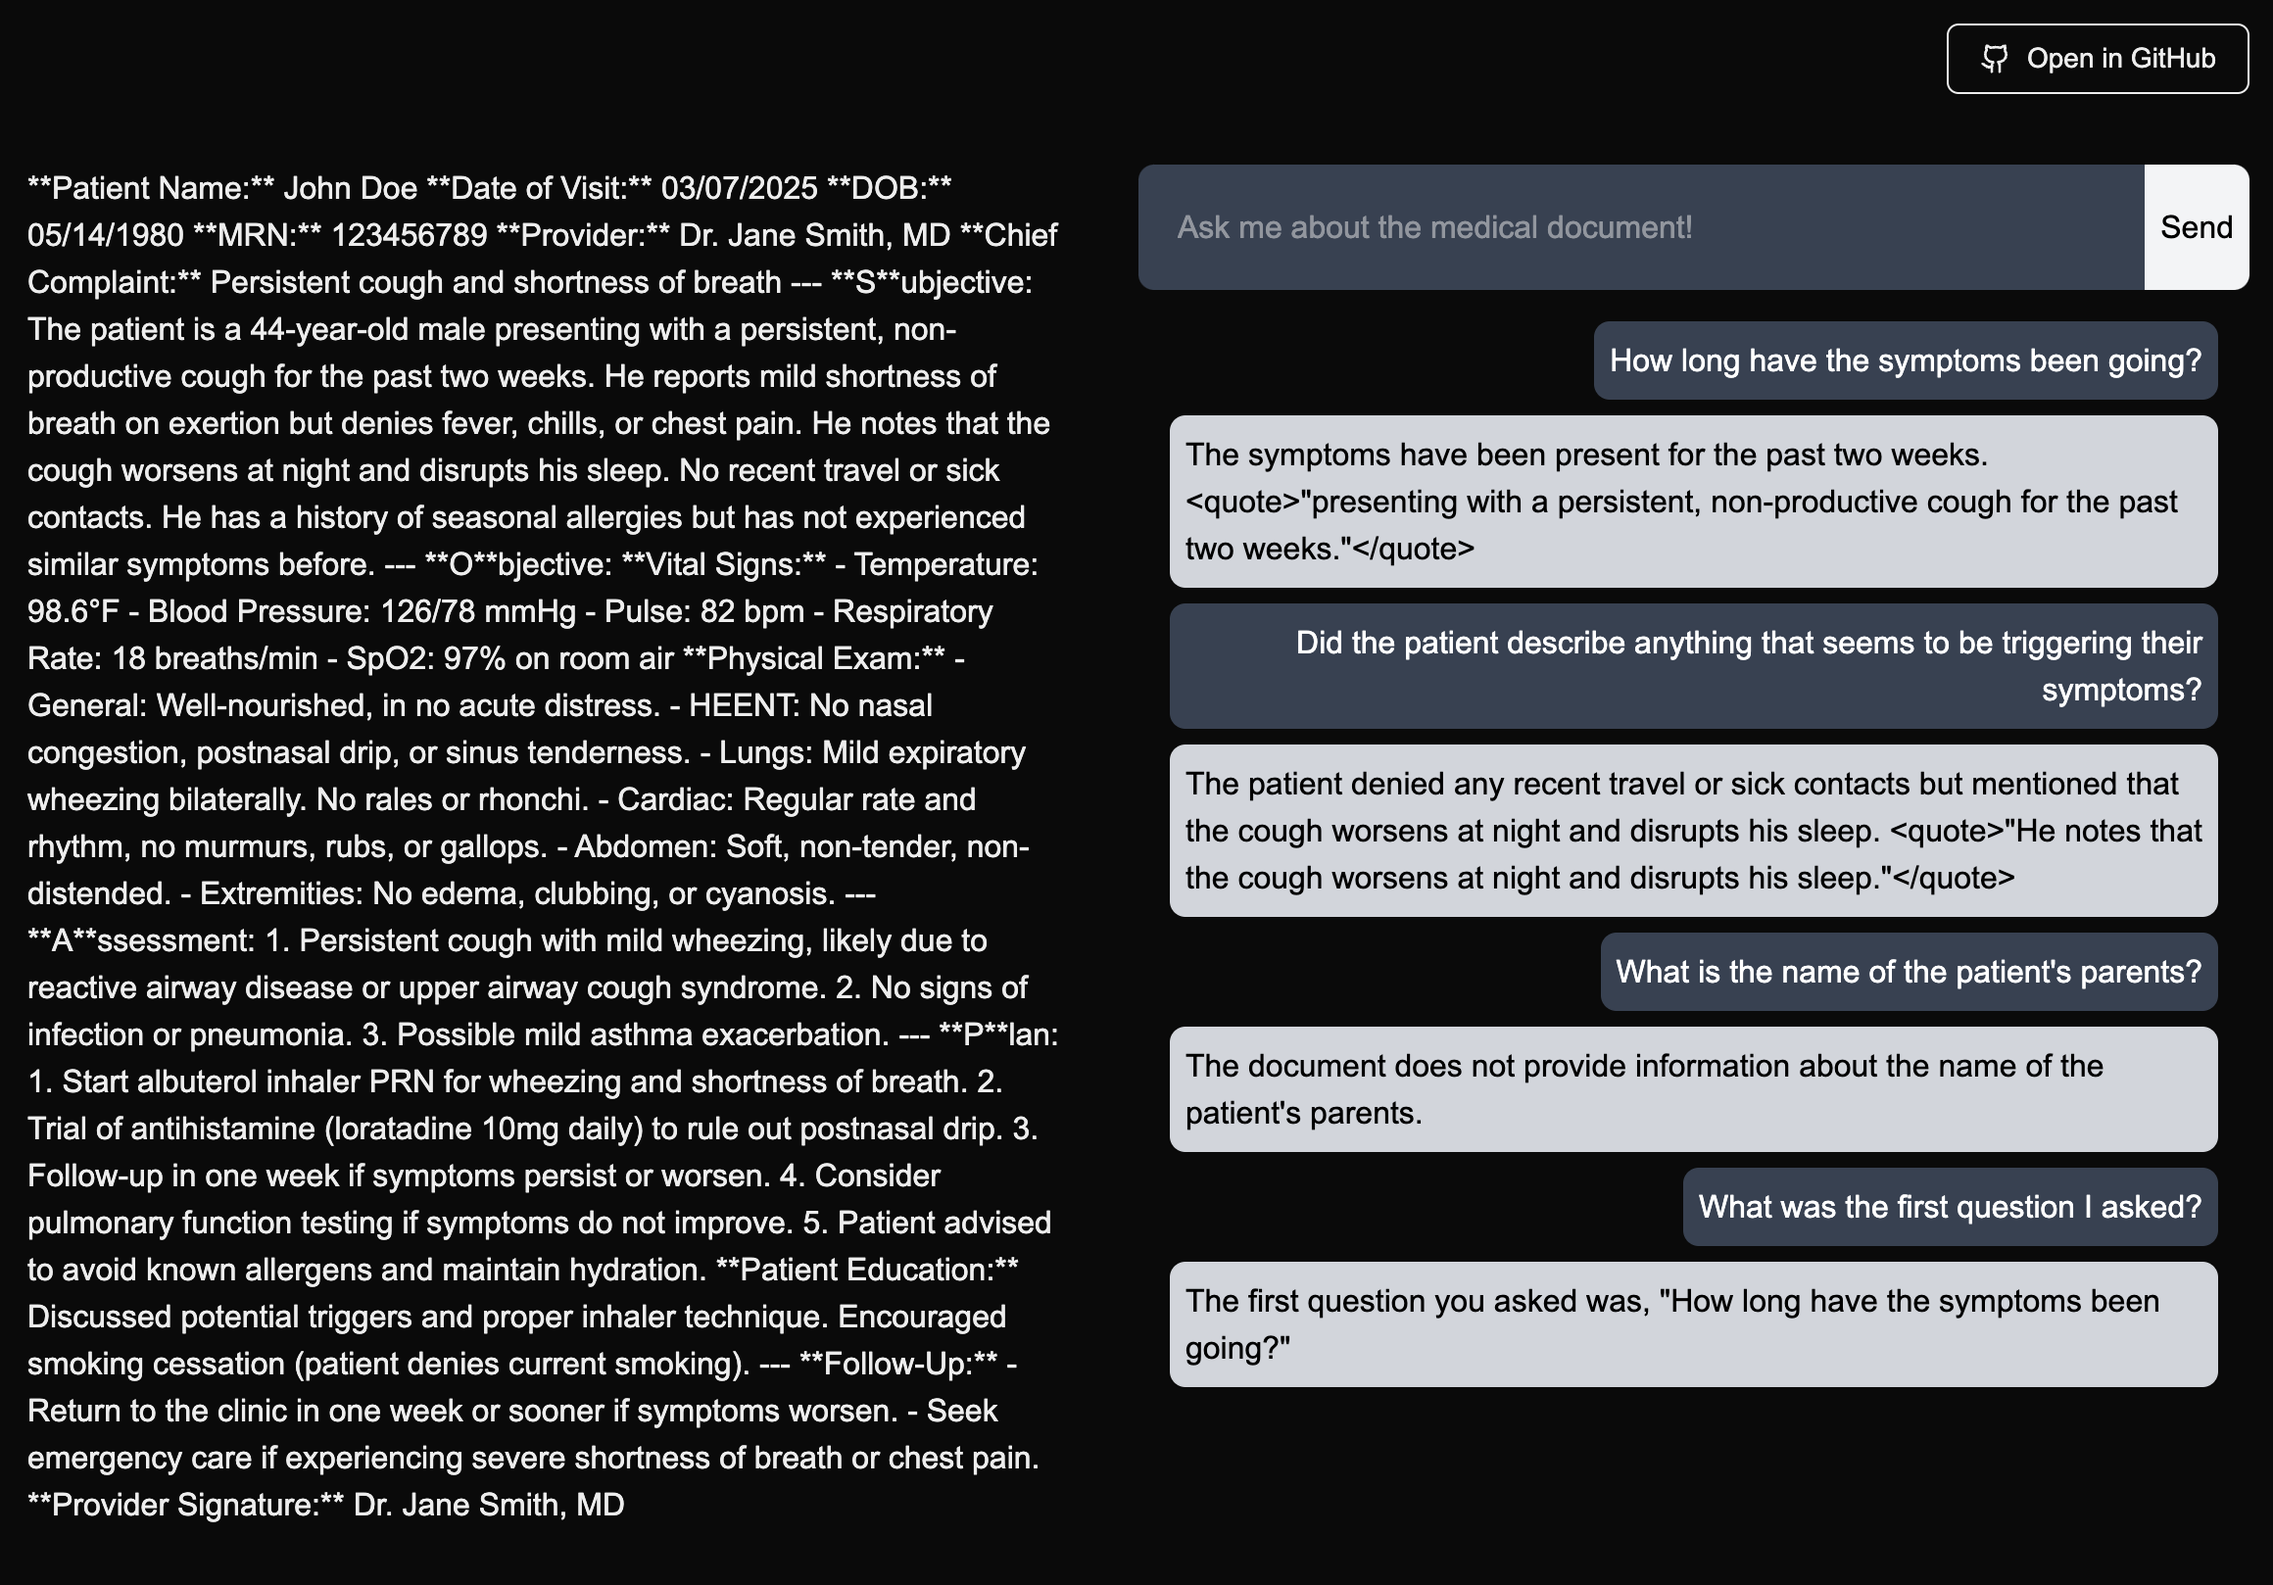
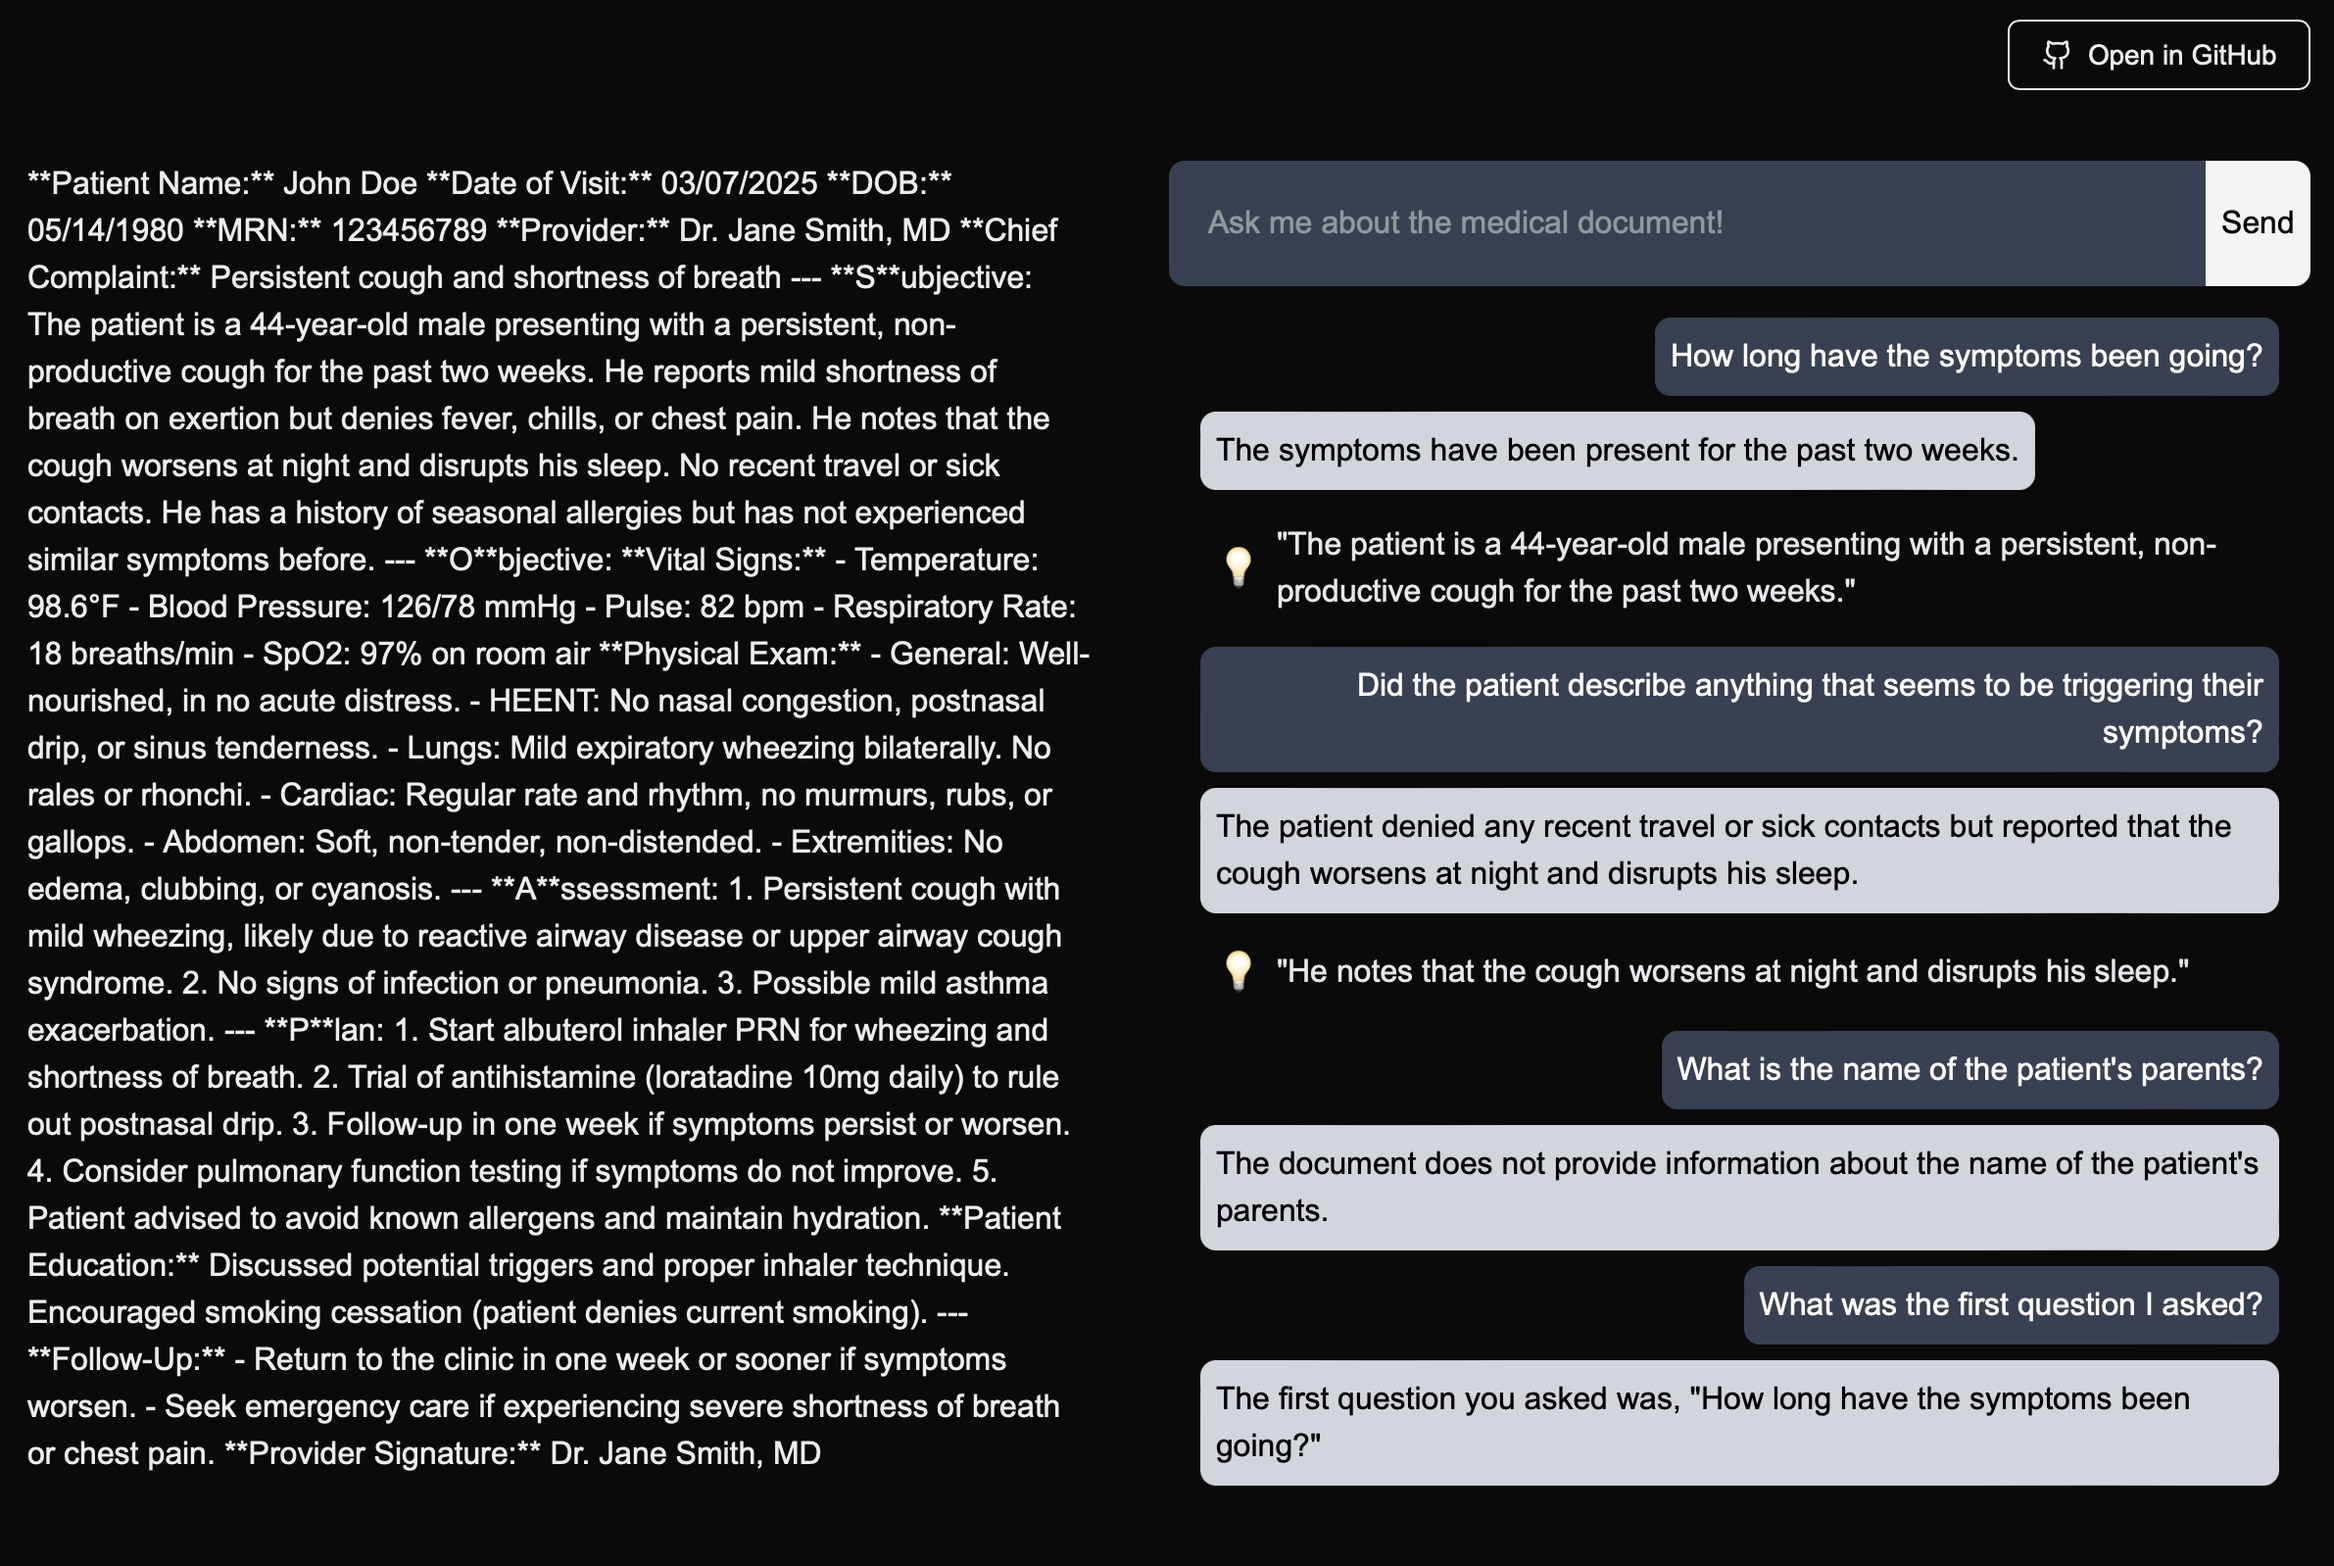
Added better visualization for source attribution

diff --git a/components/ChatWindow.tsx b/components/ChatWindow.tsx
@@ -67,9 +67,25 @@ export function Chatbot(props: {
       <div className="flex-grow overflow-auto p-4 rounded-lg shadow-md">
         {messages.map((message, index) => (
           <div key={index} className={`mb-2 ${message.sender === "User" ? "text-right" : "text-left"}`}>
-            <span className={`inline-block p-2 rounded-lg ${message.sender === "User" ? "bg-gray-700 text-white" : "bg-gray-300 text-black"}`}>
-              {message.text}
-            </span>
+            {message.sender === "Bot" ? (
+              <div className="space-y-2">
+                <span className="inline-block p-2 rounded-lg bg-gray-300 text-black">
+                  {message.text.split(/<quote>[\s\S]*?<\/quote>/)}
+                </span>
+                {message.text.match(/<quote>([\s\S]*?)<\/quote>/) && (
+                  <div className="flex items-center gap-2 p-2">
+                    <span className="text-blue-500 text-xl">💡</span>
+                    <span className="text-gray-200">
+                      {message.text.match(/<quote>([\s\S]*?)<\/quote>/)![1]}
+                    </span>
+                  </div>
+                )}
+              </div>
+            ) : (
+              <span className="inline-block p-2 rounded-lg bg-gray-700 text-white">
+                {message.text}
+              </span>
+            )}
           </div>
         ))}
       </div>

diff --git a/README.md b/README.md
@@ -82,7 +82,7 @@ Currently, there is no method to handle large transcripts that might exceed the 
 
 
 *Q: How might you improve the UI interface?*<br>
-Currently, I'm using some basic prompt engineering to require the response to "quote" from the document in its thinking process. This is not a very friendly UI interface -- a better approach (as a v2!) would be to dynamically render the source text so it "highlights" the relevant quotes.
+Currently, I'm using 💡 to highlight that the AI's response/thinking process was sourced from the document. This is not a very friendly UI interface -- a better approach (as a v2!) would be to dynamically render the source text so it "highlights" the relevant quotes.
 
 *Q: How would you handle edge cases like incomplete transcripts or ambiguous questions?*<br>
 The current setup uses simple prompting to prevent ambigious transcripts/incomplete context (by asking the system to say "I don't know"), but more complex configurations such as asking the system to generate a confidence score of its responses combined with some good evaluation system can be implemented. Again, this is a more complex setup but would be a great v2!
